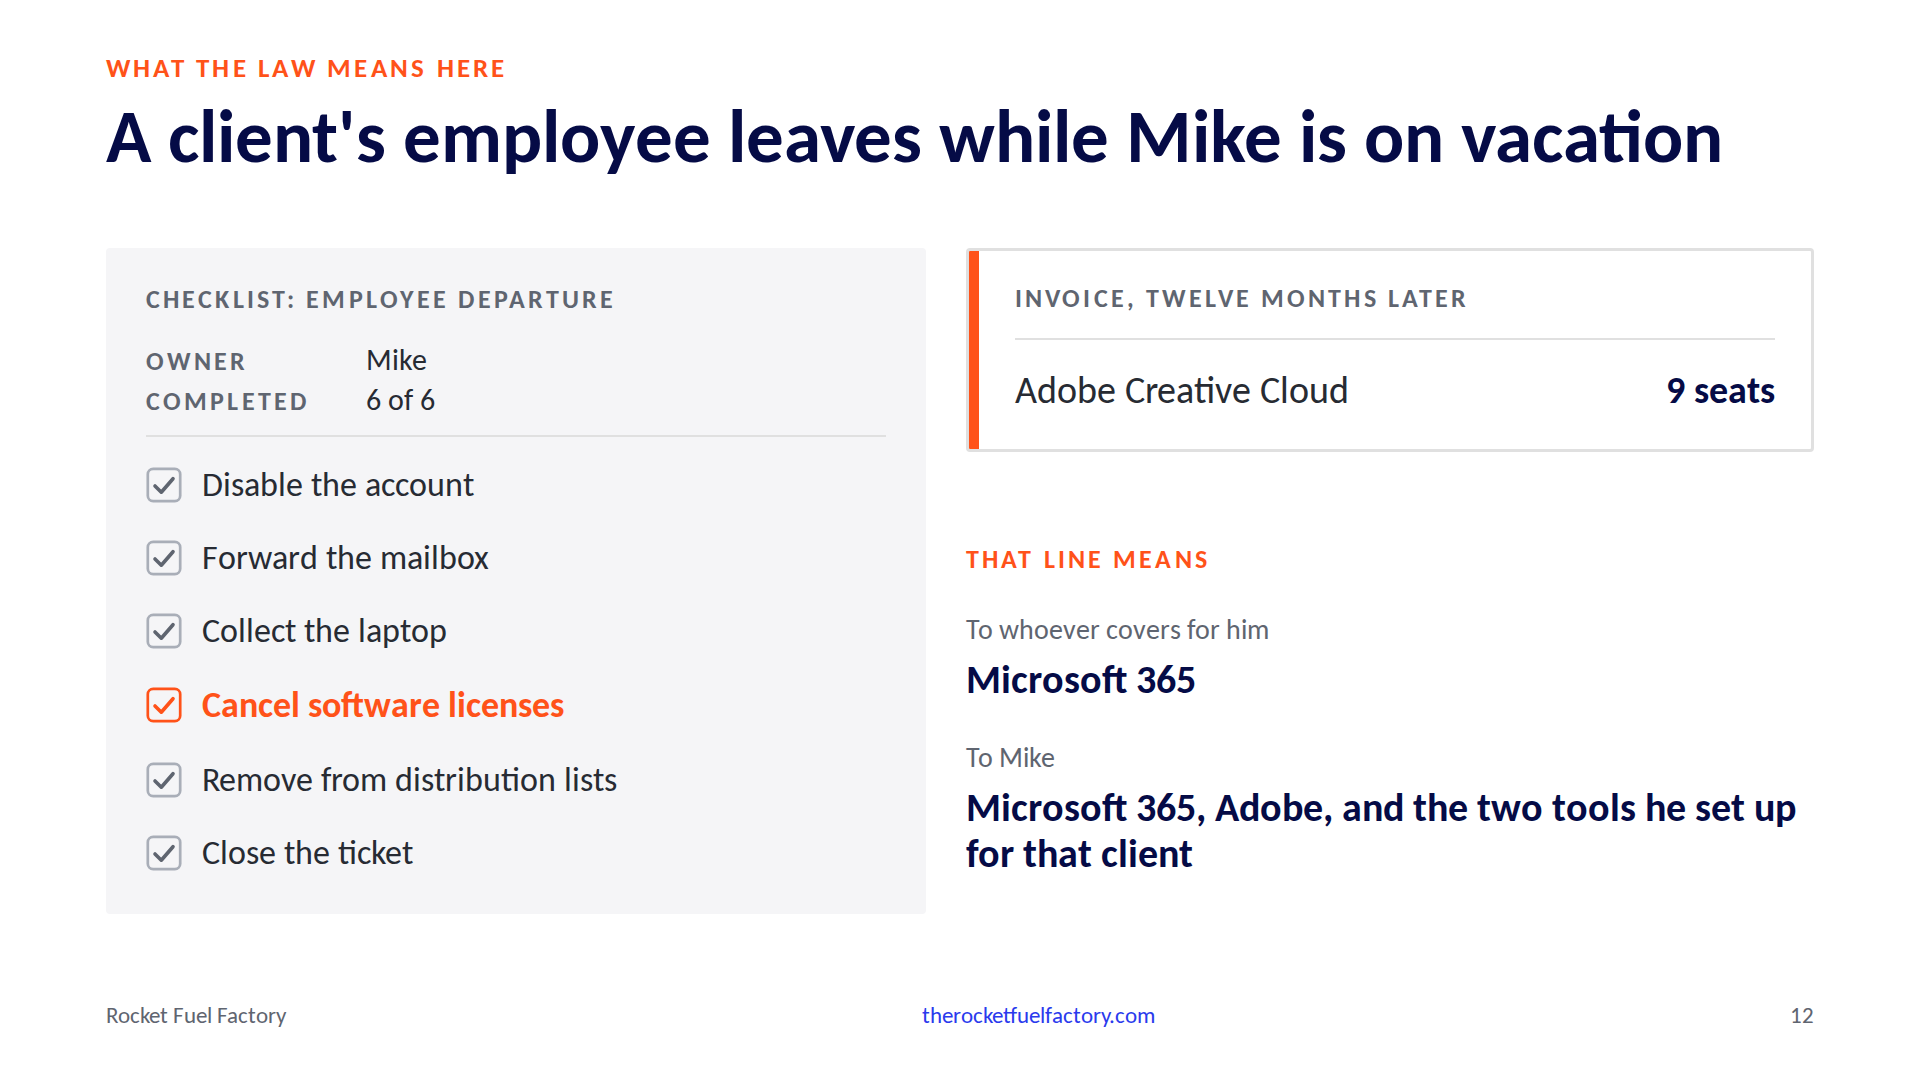
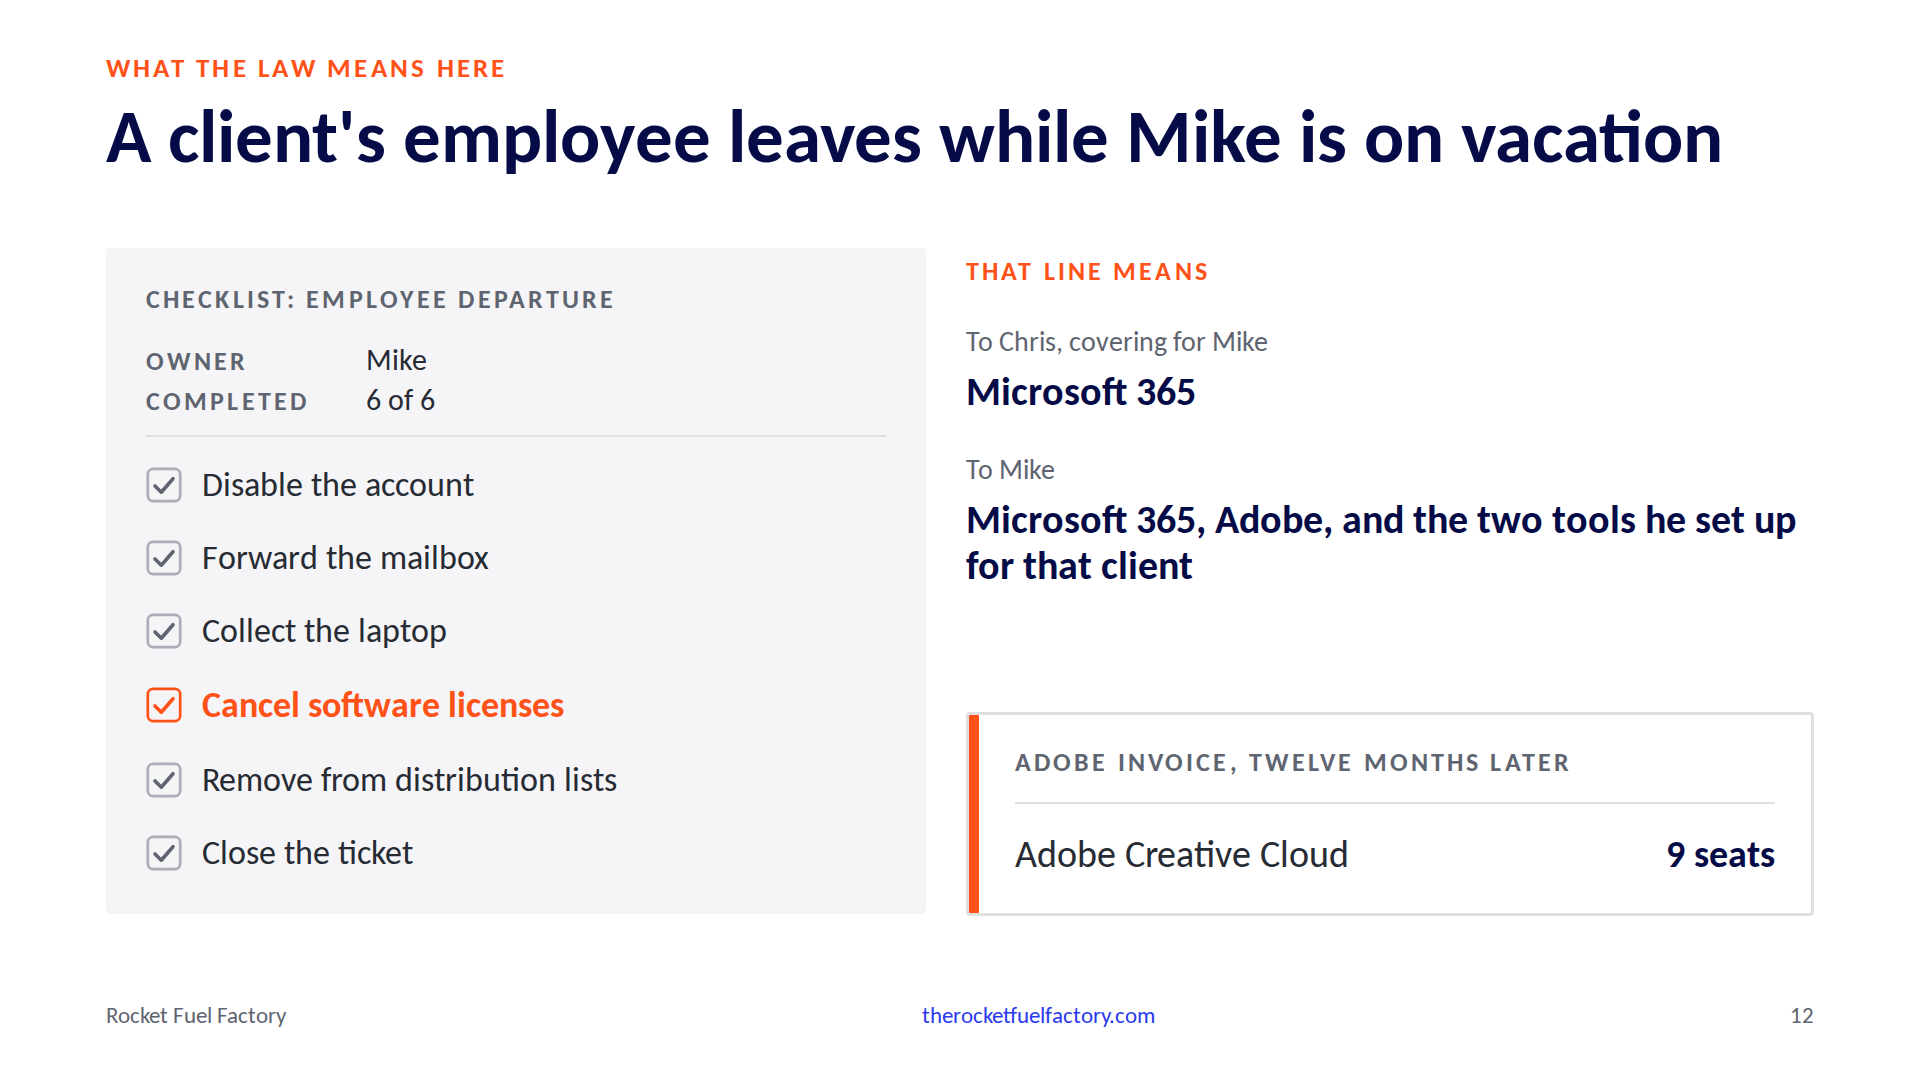
Slide 12: Chris named, Adobe invoice at the bottom; notes HUD wide enough to read without scrolling

Changed region(s): [[0.5, 0.2139, 0.9375, 0.55], [0.5, 0.5806, 0.9375, 0.8556], [0.875, 0.3361, 0.9375, 0.3972]]

diff --git a/src/data/notes.js b/src/data/notes.js
@@ -15,7 +15,7 @@ export const notes = {
   'demo-strong': 'Target 9:20. Under 150 words. It names the dentist. Nothing in it that Dana should not see. Same tool, same ticket. The only thing we changed was what we told it. Now the part that matters. The machine never talked to Dana. I read this, I put my name on it, and I sent it. That is the job it is good for: the draft. The send is mine. And those five questions are not about email. Who is reading this, what does the vague phrase mean, which facts are liabilities, what tone, what are we actually asking for. That works on a person too. When we say we set up new users, what we have is a ticket with the facts, and the rules are in someone\'s head. You just saw what happens when we hand that to something that cannot guess.',
   'demo-ask': 'Target 6:30. Here is what worked. We did not type try again, and we did not fix the email ourselves. We asked it what we should have told it in the first place. It gave us five things. Who is actually reading this, and what is their relationship to the outage. What on top of it was supposed to mean. Whether the Q2 detail was a feature or a liability. What tone. Whether there was a business ask riding along. We knew the answer to every one of those before we typed a word. We just never wrote them down. And it owned the leak. It called the Q2 sentence the single riskiest line in the ticket, said it could read either as we caught this or as we knew and did nothing, and admitted it had made that call for us without asking. It knew it was guessing. It will tell you, if you ask. Try this tonight on the last answer that disappointed you.',
   'aharons-law': 'Target 10:40. SLOW. We built computers to be automation machines, and most of us are afraid to actually automate anything with them. I think this is why. Aharon Chernin, who I work with, puts it this way: you can\'t automate a process that doesn\'t exist. I have been quoting that for years and it means something different to me every time. Here is what it means to me today. Having a process is not the same as having someone who knows how it is done. Most of what we call a process is the second thing. The first time you try to automate it, you find out which one you have, because the machine cannot ask what you meant. That is worth an afternoon even if nothing ships. Here is the same thing happening to a checklist instead of an email.',
-  'exists-means-said-out-loud': 'Target 11:10. DRAFT, not yet reviewed with Tim. A client calls: one of their people is leaving on Friday. We have a checklist for that. It is a good one, six steps, and everyone follows it. Mike wrote it, and Mike is on vacation this week. Whoever covers for him works down the list. One line says cancel software licenses, so he cancels Microsoft 365, ticks the box, and closes the ticket. Nothing looks wrong. A year later somebody reconciles the Adobe bill and finds nine seats for people who no longer work there. Nobody skipped a step. To Mike, that line means Microsoft, Adobe, and the two tools he set up for that client, because he set them up. To anyone else it means Microsoft. Same words, and the meaning lives in one person. This is the email again. On top of it meant something specific in one head and nothing specific anywhere else. Here is what that costs. Mike cannot take a vacation, because the process is him. Every departure gets handled twice, once wrong by whoever covers, once right by the expensive person. And the hire that covers for Mike is not for the work. It is insurance against a definition of done that lives in one person. The fix is an hour. Sit down with Mike, ask him which licenses, and write it down. After that anyone can run it, and so can a machine. That is what doing more without adding bodies means: fewer people needed to make a process safe. It is true of any process that lives in one person, and it is why so many of us automate the wrong ones.',
+  'exists-means-said-out-loud': 'Target 11:10. DRAFT, not yet reviewed with Tim. A client calls: one of their people is leaving on Friday. We have a checklist for that. It is a good one, six steps, and everyone follows it. Mike wrote it, and Mike is on vacation this week, so Chris covers for him and works down the list. One line says cancel software licenses, so Chris cancels Microsoft 365, ticks the box, and closes the ticket. Nothing looks wrong. A year later you reconcile the Adobe bill and find nine seats for people who no longer work there. Nobody skipped a step. To Mike, that line means Microsoft, Adobe, and the two tools he set up for that client, because he set them up. To Chris it means Microsoft. Same words, and the meaning lives in one person. This is the email again. On top of it meant something specific in one head and nothing specific anywhere else. Here is what that costs. Mike cannot take a vacation, because the process is him. Every departure gets handled twice, once wrong by Chris, once right by the expensive person. And the hire that covers for Mike is not for the work. It is insurance against a definition of done that lives in one person. The fix is an hour. Sit down with Mike, ask him which licenses, and write it down. After that Chris can run it, and so can a machine. That is what doing more without adding bodies means: fewer people needed to make a process safe. It is true of any process that lives in one person, and it is why so many of us automate the wrong ones.',
   'the-wrong-things': 'Target 13:10. The one that bristles. Some people in the room sell auto-replies and templated QBRs. Say it anyway: that is automating the customer away. Automate the automaton instead. Line to land: automate to give time back to the customer, not to hide from them. Bridge, before the click: once you have written the automaton work down, two different machines can take it. The next three slides are which one gets what. Click.',
   'divider-where-ai-belongs': 'Target 15:10. Transition. Speed is what these machines give you unconditionally. It exposes bad instructions instantly and executes them instantly. Fast is only a gift once you have said what good looks like.',
   'deterministic-vs-probabilistic': 'Target 15:40. Line to land: you already run a probabilistic system, it is called a tech at 4pm on a Tuesday. Read both columns aloud.',

diff --git a/src/components/slides/012-ExistsMeansSaidOutLoud.jsx b/src/components/slides/012-ExistsMeansSaidOutLoud.jsx
@@ -86,12 +86,12 @@ export default function ExistsMeansSaidOutLoud({ slideNumber }) {
       {/* The bill */}
       <div
         className="absolute overflow-hidden rounded-[4px] border-[3px] border-rff-gray-line bg-white"
-        style={{ left: R, top: 248, width: RW }}
+        style={{ left: R, top: 712, width: RW }}
       >
         <div className="absolute left-0 top-0 h-full w-[10px] bg-rff-orange" />
         <div style={{ padding: '28px 36px 30px 46px' }}>
           <p className="text-[26px] font-bold uppercase tracking-[0.12em] text-rff-muted">
-            Invoice, twelve months later
+            Adobe invoice, twelve months later
           </p>
           <div className="mt-[20px] h-[2px] w-full bg-rff-gray-line" />
           <div className="mt-[22px] flex items-baseline justify-between">
@@ -102,9 +102,9 @@ export default function ExistsMeansSaidOutLoud({ slideNumber }) {
       </div>
 
       {/* What the line meant */}
-      <div className="absolute" style={{ left: R, top: 540, width: RW }}>
+      <div className="absolute" style={{ left: R, top: 252, width: RW }}>
         <p className="text-[26px] font-bold uppercase tracking-[0.12em] text-rff-orange">That line means</p>
-        <p className="mt-[30px] text-[28px] text-rff-muted">To whoever covers for him</p>
+        <p className="mt-[30px] text-[28px] text-rff-muted">To Chris, covering for Mike</p>
         <p className="mt-[6px] text-[40px] font-bold leading-[1.15] text-rff-navy">Microsoft 365</p>
         <p className="mt-[34px] text-[28px] text-rff-muted">To Mike</p>
         <p className="mt-[6px] text-[40px] font-bold leading-[1.15] text-rff-navy">

diff --git a/src/PresentationApp.jsx b/src/PresentationApp.jsx
@@ -180,7 +180,7 @@ export default function PresentationApp() {
       </div>
 
       {showHud && (
-        <div className="absolute bottom-[24px] right-[24px] flex w-[480px] flex-col gap-[10px] rounded-[4px] bg-white/95 p-[24px] text-rff-body shadow-2xl">
+        <div className="absolute bottom-[24px] right-[24px] flex w-[1040px] max-w-[calc(100vw-48px)] flex-col gap-[12px] rounded-[4px] bg-white/95 p-[28px] text-rff-body shadow-2xl">
           <p className="text-[16px] font-bold text-rff-navy">
             Slide {index + 1} of {slides.length}
           </p>
@@ -190,7 +190,7 @@ export default function PresentationApp() {
               {timerRunning ? 'Running' : 'Stopped'}
             </span>
           </div>
-          <p className="max-h-[280px] overflow-y-auto whitespace-pre-wrap text-[15px]">
+          <p className="max-h-[calc(100vh-200px)] overflow-y-auto whitespace-pre-wrap text-[20px] leading-[1.45]">
             {slideNotes || 'No notes for this slide.'}
           </p>
         </div>
